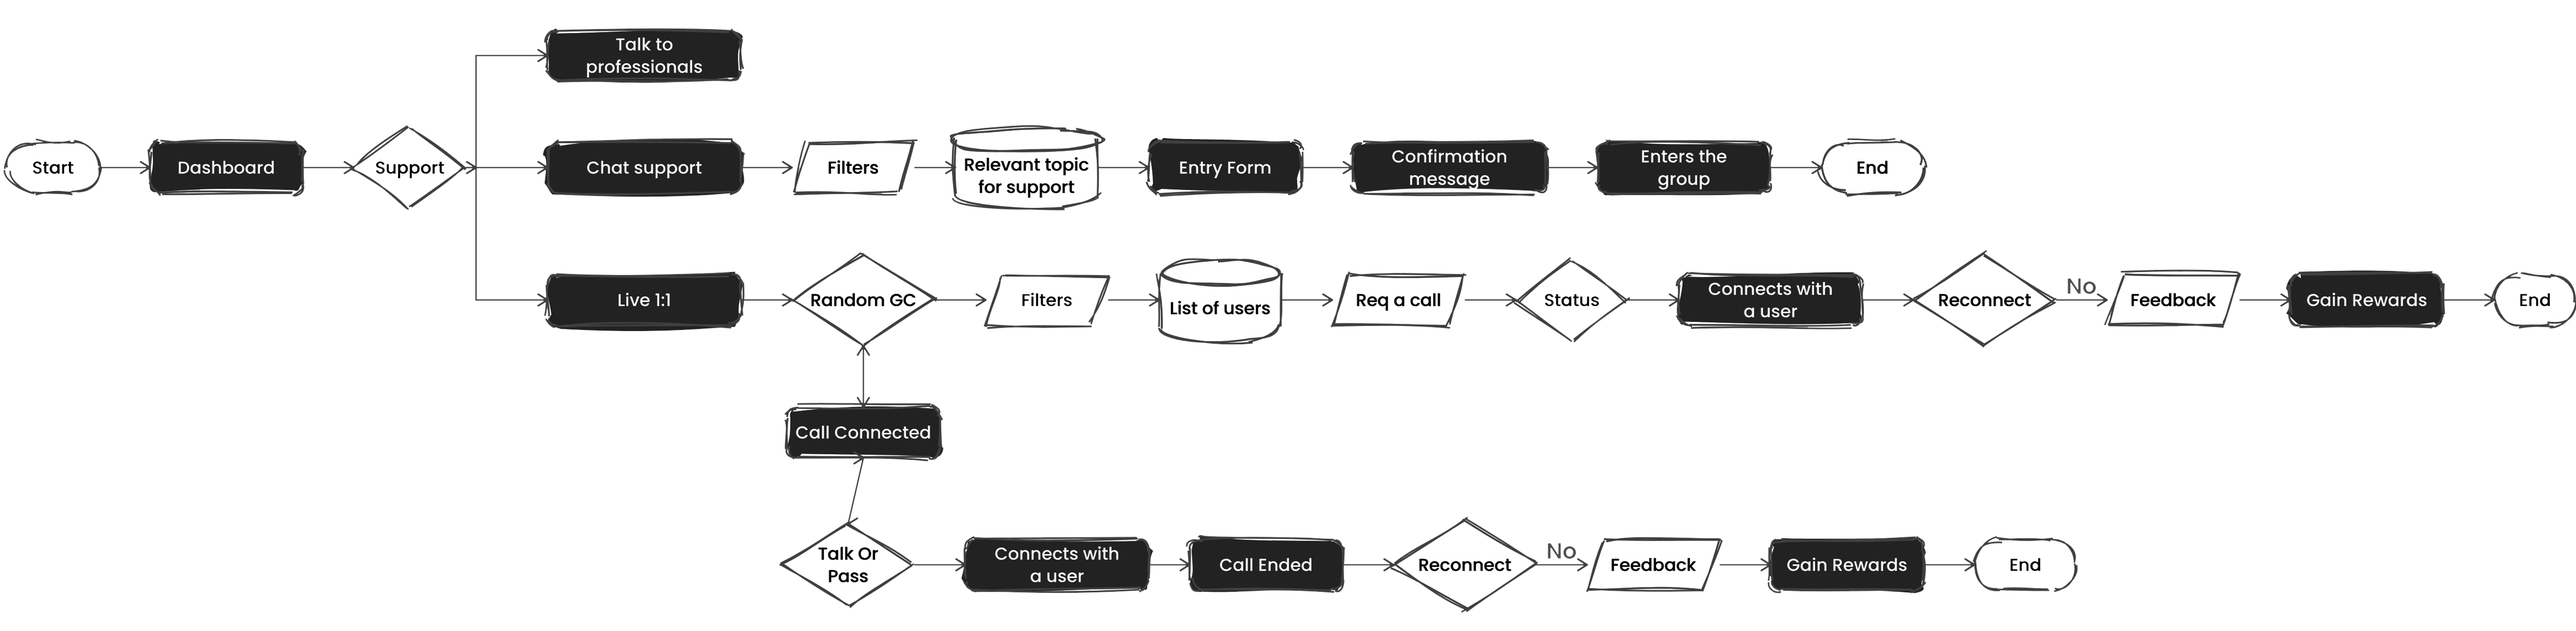
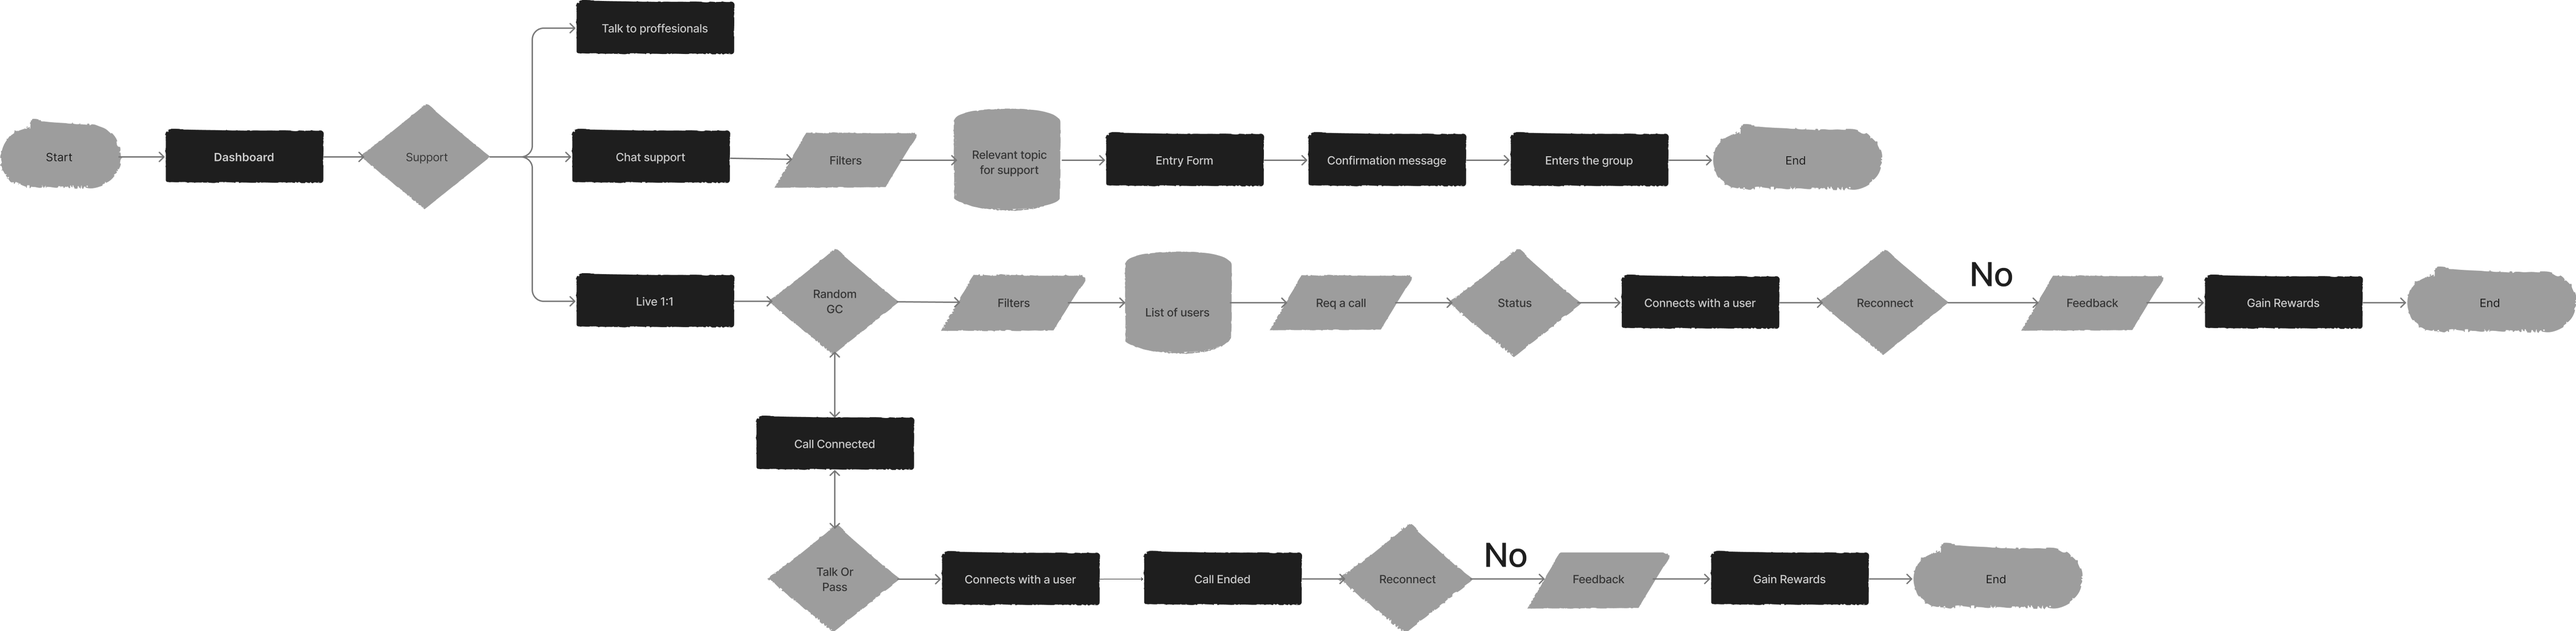
Rename brad theme to draft/grape, update tokens and styles

diff --git a/style/tokens.css b/style/tokens.css
@@ -84,6 +84,9 @@
   --recent-laptop-front-src: url("../resources/recent-laptop-front-dark.png");
   --recent-screen-behavior-src: url("../resources/micro-animations-.png");
 }
+[data-theme="dark"] {
+  --radius-sm: 999px;
+}
 [data-theme="light"] {
   color-scheme: light;
   --bg-canvas:        var(--color-white);
@@ -125,6 +128,7 @@
   --watches-src: url("../resources/watches-light.png");
   --recent-laptop-front-src: url("../resources/recent-laptop-front-light.png");
   --recent-screen-behavior-src: url("../resources/micro-animations-.png");
+  --radius-sm: 999px;
 }
 [data-theme="grape"] {
   color-scheme: light;
@@ -172,7 +176,7 @@
   --recent-screen-behavior-src: url("../resources/micro-animations-.png");
 
   --radius-xs:   2px;
-  --radius-sm:   2px;
+  --radius-sm:   6px;
   --radius-md:   6px;
   --radius-lg:   6px;
   --radius-pill: 6px;

diff --git a/style/styles.css b/style/styles.css
@@ -1086,6 +1086,7 @@ body {
 [data-theme="draft"] .project-chip.drawably-card {
   padding: 4px 10px;
   font-family: var(--font-data);
+  background: transparent;
 }
 [data-theme="draft"] .skills-tag.drawably-card {
   padding: 6px 14px;
